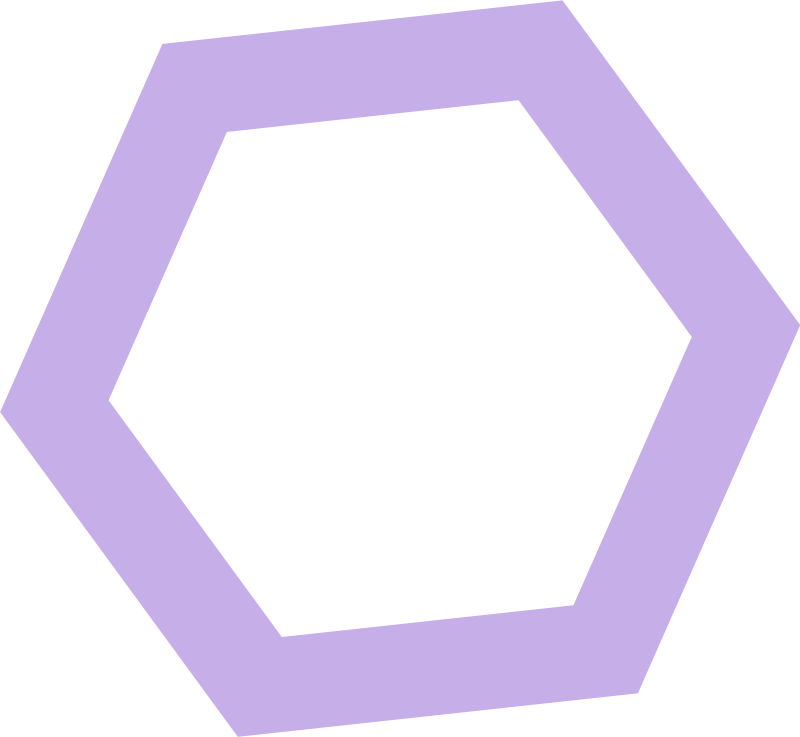
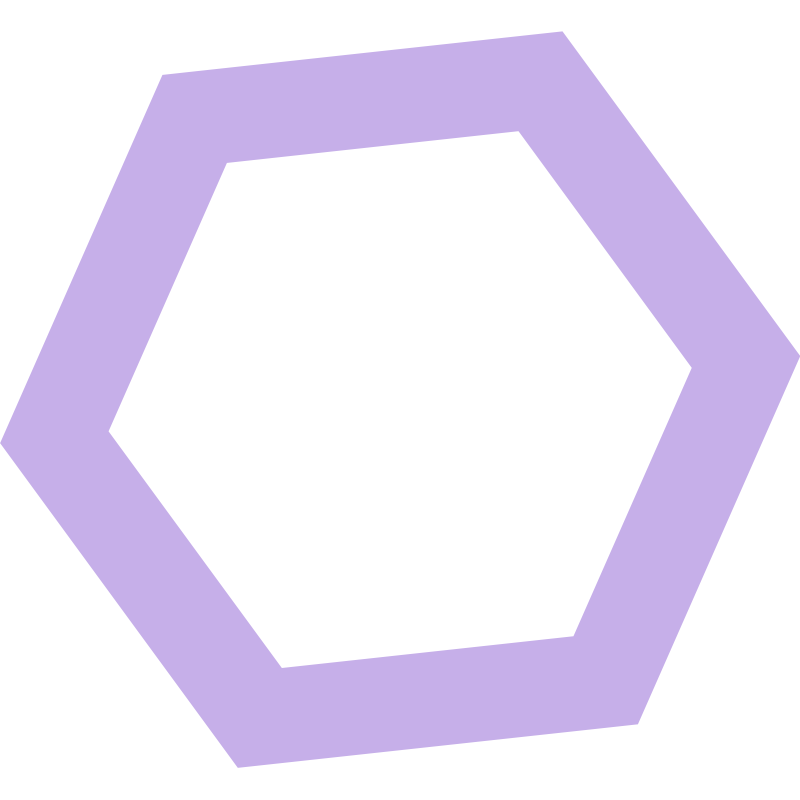
Background fixed

diff --git a/TetriClimber/TetriClimber/Background.cs b/TetriClimber/TetriClimber/Background.cs
@@ -8,41 +8,42 @@ namespace TetriClimber
 {
     public class Background : DrawableGameComponent
     {
-        public enum ShapesId { BLUE_SQUARE, GREEN_CROSS, GREEN_SQUARE, ORANGE_TRIANGLE, PINK_CROSS, VIOLET_HEXAGONE, YELLOW_LINES };
-        private Dictionary<ShapesId, KeyValuePair<TextureManager.ETexture, BackgroundShapeData>> shapes;
+        //public enum ShapesId { BLUE_SQUARE, GREEN_CROSS, GREEN_SQUARE, ORANGE_TRIANGLE, PINK_CROSS, VIOLET_HEXAGONE, YELLOW_LINES };
+        //private Dictionary<ShapesId, KeyValuePair<TextureManager.ETexture, BackgroundShapeData>> shapes;
+        private List<KeyValuePair<TextureManager.ETexture, BackgroundShapeData>> shapes;
 
         public Background()
             : base(App.Game)
         {
-            shapes = new Dictionary<ShapesId, KeyValuePair<TextureManager.ETexture, BackgroundShapeData>>();
-            shapes[ShapesId.BLUE_SQUARE] = new KeyValuePair<TextureManager.ETexture, BackgroundShapeData>(TextureManager.ETexture.BLUE_SQUARE,
-                new BackgroundShapeData(new Vector2(0, 0), 0.01f, MathHelper.ToRadians(0), 400));
-            shapes[ShapesId.GREEN_CROSS] = new KeyValuePair<TextureManager.ETexture, BackgroundShapeData>(TextureManager.ETexture.GREEN_CROSS,
-                new BackgroundShapeData(new Vector2(Constants.Measures.portraitWidth, 0), 0.012f, MathHelper.ToRadians(360 / 7 * 1), 200));
-            shapes[ShapesId.GREEN_SQUARE] = new KeyValuePair<TextureManager.ETexture, BackgroundShapeData>(TextureManager.ETexture.GREEN_SQUARE,
-                new BackgroundShapeData(new Vector2(0, Constants.Measures.portraitHeight), 0.014f, MathHelper.ToRadians(360 / 7 * 2), 300));
-            shapes[ShapesId.ORANGE_TRIANGLE] = new KeyValuePair<TextureManager.ETexture, BackgroundShapeData>(TextureManager.ETexture.ORANGE_TRIANGLE,
-                new BackgroundShapeData(new Vector2(Constants.Measures.portraitWidth, Constants.Measures.portraitHeight), 0.015f, MathHelper.ToRadians(360 / 7 * 3), 250));
-            shapes[ShapesId.PINK_CROSS] = new KeyValuePair<TextureManager.ETexture, BackgroundShapeData>(TextureManager.ETexture.PINK_CROSS,
-                new BackgroundShapeData(new Vector2(50, 50), 0.016f, MathHelper.ToRadians(360 / 7 * 4), 100));
-            shapes[ShapesId.VIOLET_HEXAGONE] = new KeyValuePair<TextureManager.ETexture, BackgroundShapeData>(TextureManager.ETexture.VIOLET_HEXAGONE,
-                new BackgroundShapeData(new Vector2(800, 200), 0.018f, MathHelper.ToRadians(360 / 7 * 5), 700));
-            shapes[ShapesId.YELLOW_LINES] = new KeyValuePair<TextureManager.ETexture, BackgroundShapeData>(TextureManager.ETexture.YELLOW_LINES,
-                new BackgroundShapeData(new Vector2(50, 50), 0.02f, MathHelper.ToRadians(360 / 7 * 6), 600));
+            shapes = new List<KeyValuePair<TextureManager.ETexture, BackgroundShapeData>>();
+            shapes.Add(new KeyValuePair<TextureManager.ETexture, BackgroundShapeData>(
+                TextureManager.ETexture.BLUE_SQUARE, new BackgroundShapeData(new Vector2(0, 0), 0.01f, 0, 400)));
+            shapes.Add(new KeyValuePair<TextureManager.ETexture, BackgroundShapeData>(
+                TextureManager.ETexture.GREEN_CROSS, new BackgroundShapeData(new Vector2(Constants.Measures.portraitWidth, 0), 0.012f, 360 / 7 * 1, 200)));
+            shapes.Add(new KeyValuePair<TextureManager.ETexture, BackgroundShapeData>(
+                TextureManager.ETexture.GREEN_SQUARE, new BackgroundShapeData(new Vector2(0, Constants.Measures.portraitHeight), 0.014f, 360 / 7 * 2, 300)));
+            shapes.Add(new KeyValuePair<TextureManager.ETexture, BackgroundShapeData>(
+                TextureManager.ETexture.ORANGE_TRIANGLE, new BackgroundShapeData(new Vector2(Constants.Measures.portraitWidth, Constants.Measures.portraitHeight), 0.015f, 360 / 7 * 3, 250)));
+            shapes.Add(new KeyValuePair<TextureManager.ETexture, BackgroundShapeData>(
+                TextureManager.ETexture.PINK_CROSS, new BackgroundShapeData(new Vector2(50, 50), 0.016f, 360 / 7 * 4, 100)));
+            shapes.Add(new KeyValuePair<TextureManager.ETexture, BackgroundShapeData>(
+                TextureManager.ETexture.VIOLET_HEXAGONE, new BackgroundShapeData(new Vector2(800, 200), 0.018f, 360 / 7 * 5, 700)));
+            shapes.Add(new KeyValuePair<TextureManager.ETexture, BackgroundShapeData>(
+                TextureManager.ETexture.YELLOW_LINES, new BackgroundShapeData(new Vector2(50, 50), 0.02f, 360 / 7 * 6, 600)));
         }
 
         public override void Update(GameTime gameTime)
         {
             base.Update(gameTime);
-            foreach (KeyValuePair<ShapesId, KeyValuePair<TextureManager.ETexture, BackgroundShapeData>> shape in shapes)
-                shape.Value.Value.Update(gameTime);
+            foreach (KeyValuePair<TextureManager.ETexture, BackgroundShapeData> shape in shapes)
+                shape.Value.Update(gameTime);
         }
 
         public override void Draw(GameTime gameTime)
         {
             base.Draw(gameTime);
-            foreach (KeyValuePair<ShapesId, KeyValuePair<TextureManager.ETexture, BackgroundShapeData>> shape in shapes)
-                SpriteManager.Instance.drawShapeAtPos(shape.Value.Value.Position, shape.Value.Key, shape.Value.Value.DrawingOrientation, shape.Value.Value.Size);
+            foreach (KeyValuePair<TextureManager.ETexture, BackgroundShapeData> shape in shapes)
+                SpriteManager.Instance.drawShapeAtPos(shape.Value.Position, shape.Key, shape.Value.DrawingOrientation, shape.Value.Size);
         }
     }
 }

diff --git a/TetriClimber/TetriClimber/ShapeData.cs b/TetriClimber/TetriClimber/ShapeData.cs
@@ -15,13 +15,20 @@ namespace TetriClimber
         private Vector2 invertion;
         private float drawingOrientation;
 
-        public BackgroundShapeData(Vector2 Position = new Vector2(), float MovingSpeed = 1f, float MovingOrientation = 0.5f, int Size = 800):base(App.Game)
+        public BackgroundShapeData(Vector2 Position = new Vector2(), float MovingSpeed = 1f, float DegreeMovingOrientation = 0.5f, int Size = 800):base(App.Game)
         {
             movingSpeed = MovingSpeed;
-            movingOrientation = MovingOrientation;
+            movingOrientation = MathHelper.ToRadians(DegreeMovingOrientation);
             position = Position;
             size = Size;
-            invertion = new Vector2(1f, 1f);
+            if (DegreeMovingOrientation <= 90)
+                invertion = new Vector2(1f, 1f);
+            else if (DegreeMovingOrientation <= 180)
+                invertion = new Vector2(-1f, 1f);
+            else if (DegreeMovingOrientation <= 240)
+                invertion = new Vector2(-1f, -1f);
+            else if (DegreeMovingOrientation <= 360)
+                invertion = new Vector2(1f, -1f);
             drawingOrientation = 0f;
         }
 
@@ -29,13 +36,13 @@ namespace TetriClimber
         {
             base.Update(gameTime);
             if (position.X > Constants.Measures.portraitWidth)
-                invertion.X = -1f;
+                invertion.X *= -1f;
             if (position.Y > Constants.Measures.portraitHeight)
-                invertion.Y = -1f;
-            if (position.X < 0 - Constants.Measures.BgShapesSize)
-                invertion.X = 1f;
-            if (position.Y < 0 - Constants.Measures.BgShapesSize)
-                invertion.Y = 1f;
+                invertion.Y *= -1f;
+            if (position.X + size < 0)
+                invertion.X *= -1f;
+            if (position.Y + size < 0)
+                invertion.Y *= -1f;
             position.X += (float)(gameTime.ElapsedGameTime.Milliseconds * movingSpeed * Math.Cos(movingOrientation)) * invertion.X;
             position.Y += (float)(gameTime.ElapsedGameTime.Milliseconds * movingSpeed * Math.Sin(movingOrientation)) * invertion.Y;
             drawingOrientation = (drawingOrientation + (float)(gameTime.ElapsedGameTime.Milliseconds) / (160 - size)) % 360;

diff --git a/TetriClimber/TetriClimber/SoundManager.cs b/TetriClimber/TetriClimber/SoundManager.cs
@@ -18,7 +18,6 @@ namespace TetriClimber
 
         private SoundManager()
         {
-            return;
             sounds = new Dictionary<ESound, SoundEffect>();
             sounds.Add(ESound.CLEARLINE, App.ContentManager.Load<SoundEffect>("ClearLineSFX"));
             sounds.Add(ESound.DROP, App.ContentManager.Load<SoundEffect>("DropSFX"));
@@ -45,7 +44,6 @@ namespace TetriClimber
 
         internal void play(ESound eSound, float pitch = 0, float volume = 0.5f)
         {
-            return;
             cur = eSound;
             if (!playing.IsDisposed)
             {
@@ -59,13 +57,11 @@ namespace TetriClimber
         }
         internal void bgmPause()
         {
-            return;
             bgm_.Pause();
         }
 
         internal void stopPlaying()
         {
-            return;
             if (!playing.IsDisposed)
             {
                 playing.Stop();
@@ -75,27 +71,19 @@ namespace TetriClimber
 
         internal void bgmPlay()
         {
-            return;
             bgm_.Play();
         }
 
         internal void setBgmPitch(float p)
         {
-            return;
             bgm_.Pitch = p;
         }
 
         internal ESound getPlayingSound()
         {
-            return ESound.NONE;
             if (playing.State == SoundState.Playing)
                 return cur;
             return ESound.NONE;
-        }
-
-        internal void playClearLines(int i)
-        {
-            throw new NotImplementedException();
         }
     }
 }
